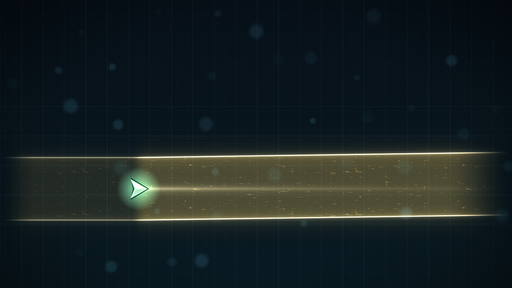
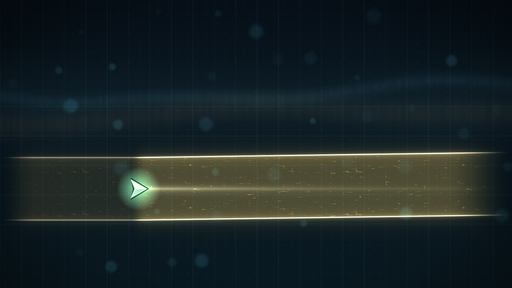
Watt Lane (#78): the reviewer's punch list before the rider
- Whole step chevrons only, ending before the lane's bend.
- The widget: captions, chips and state at 42 px; a fixed 820 px width so the HUD never shifts;
  "IN LANE" replaces the in-lane % (moved to the summary); off the lane it says how far
  ("PUSH 14 W"); the chip is "▲ 135–185 in 3" with a drawn arrow.
- The step's watts at 56 px, just inside the new lane.
- Depth above the lane: a horizon of light and two slow ribbons in the field.
- Summary: in-lane %, best streak and steps caught, through a new framework field,
  GameInfo.summary_stats (any game can declare its own tiles).

Changed region(s): [[0.125, 0.3125, 0.6875, 0.375]]

diff --git a/docs/GAMES.md b/docs/GAMES.md
@@ -663,6 +663,7 @@ game is also playable on the desktop: run its scene with F6, or play the project
 | `star_thresholds` | `{easy: [1★, 2★, 3★], standard: […], hard: […]}`: the minimum score for each star |
 | `stars_per_minute` | When true, the thresholds are points per minute of gameplay, so one set fits a 90 s slot and a 30-minute ride |
 | `variant_star_thresholds` | Star thresholds for the game's variants, by variant (e.g. `{"catch": {…}}`); others use `star_thresholds` |
+| `summary_stats` | A one-game summary's extra tiles from the result's `stats`: `[{key, label, suffix, of}]` (`of`: a second stat, shown "3/4"); at most three. Watt Lane shows in-lane %, best streak and steps caught. |
 | `options` | The game's own settings, shown on its hub screen and in the pause screen's **Game options** card: `[{key, label, choices, labels, default}]`, values as strings, plus the optional `where`, `kind`, `cards`, `columns`, `group` and `rider_badge`. See "Game options". |
 
 For work games, set the thresholds so that 3 stars needs about 1.3× effort. A perfect run at
@@ -1826,8 +1827,9 @@ the field, `WattLaneStatus` the HUD widget and `WattLaneAudio` the sounds (`watt
   within `lane_min_watts`..`lane_max_watts` (Kotlin: work 40-60 / 45-70 / 50-75% of FTP, warm-up
   35-55%). On screen, a faint guide every 12.5% of FTP; time ahead is distance to the right at
   150 px a second (about 9 s visible).
-- **Steps** are announced 5 s ahead: a chime, a countdown chip ("▲ UP 175–215 in 5"), and on the
-  lane a riser of light, amber chevrons and the new watts. From 1.5 s before a step to 3.5 s after,
+- **Steps** are announced 5 s ahead: a chime, a countdown chip ("▲ 175–215 in 5", the arrow
+  drawn), and on the lane a riser of light, whole amber chevrons before the bend and the new watts
+  (56 px, just inside the new lane). Off the lane, the widget says how far: "PUSH 14 W". From 1.5 s before a step to 3.5 s after,
   either lane counts.
 - **Scoring.** 10 points a second in the lane times a streak (×1 to ×3 over 20 s; it survives
   1 s outside), through `Effort.award`; a warm-up's points count 1.25×. Stars, points a minute:

diff --git a/games/games/watt_lane/UI_POLISH.md b/games/games/watt_lane/UI_POLISH.md
@@ -29,3 +29,19 @@ From the UI review of 2026-11-02 against `framework/ui/UI_STYLE.md`, with the wa
 5. **The out-of-lane state was colour only on the field.** **Done:** the chip PUSH ▲ / EASE ▼ /
    PEDAL ▲ in the widget, the chevron's amber rim, and the softer hum (never colour alone).
 6. **The cursor sat under the ride panel at high power.** **Done** (`GFX_POLISH.md` item 2).
+
+## Reviewer's punch list (2026-11-02), done
+
+7. **The widget's captions were about 22 px on screen** ("W LANE ×2.0", "In lane 97%"). **Done:**
+   captions, the streak, the chips and the state at 42 px; "In lane %" moved to the summary, and
+   the row says "IN LANE" (green) while in.
+8. **The widget's width changed when a chip appeared** (its right edge 1240 → 1350), shifting the
+   HUD. **Done:** a fixed 820 px (`WattLaneStatus.WIDTH`); `watt_lane_scene_test` checks the width
+   is the same with no chip, the alert and the countdown. The chip drops its "UP"/"DOWN" word to
+   fit at 42 px: "▲ 135–185 in 3", the arrow a drawn shape.
+9. **Off the lane said only "PUSH".** **Done:** "PUSH 14 W" / "EASE 20 W": how far, in whole watts,
+   from the ride panel's W to the band the rules use.
+10. **The summary showed points and time only.** **Done:** three more tiles, in-lane %, best
+    streak and steps caught, through a new framework field, `GameInfo.summary_stats` (any game can
+    declare its own; a one-game summary shows them).
+11. **The step label** (`GFX_POLISH.md` item 10).

diff --git a/games/games/watt_lane/DESIGN.md b/games/games/watt_lane/DESIGN.md
@@ -91,7 +91,7 @@ one power number: the **smoothed power**, `W = round(3 s average of the power re
 
 ### Announcing a jump (rider)
 
-- **5 s ahead** (`ANNOUNCE_SEC`): a chime, the countdown chip ("▲ UP 175–215 in 5", then 4, 3,
+- **5 s ahead** (`ANNOUNCE_SEC`): a chime, the countdown chip ("▲ 175–215 in 5", then 4, 3,
   2, 1, NOW), and amber chevrons in the lane leading into the step, with its new watts beside it. The bike reports about
   once a second, so 5 s is well over the 2 s minimum.
 - A soft tick on each of 3, 2, 1; a whoosh at the jump.
@@ -192,7 +192,7 @@ reaches at any length and a 1.3× run reaches even in a 60 s slot; on a long Jus
 10. **2D, horizontal, abstract (rider, 2026-11-02):** power is height, not a place across a
     road (a sideways lane reads as "lean"); a chevron cursor and a lit lane, not a staff and a
     note (the silhouette check). See the history above.
-11. **The countdown chip reads "▲ UP 175–215 in 5"**, not the issue's "UP to 160 W in 5": it names
+11. **The countdown chip reads "▲ 175–215 in 5"** (a drawn arrow), not the issue's "UP to 160 W in 5": it names
     the lane's bounds (the numbers the rules use) and, with "to" and "W" in, a three-digit lane
     overflowed the HUD's 850 px slot (`watt_lane_scene_test`).
 

diff --git a/games/games/watt_lane/GFX_POLISH.md b/games/games/watt_lane/GFX_POLISH.md
@@ -54,3 +54,14 @@ suite green.
 - The 3D night highway (a road read as "lean to change lanes").
 - The power-line staff, its four illustrated places and the note-head marker (the marker failed
   the silhouette check; the rider asked for an abstract look).
+
+## Reviewer's punch list (2026-11-02), done
+
+9. **The last step chevron was cut by the lane's bend** (`wl_3`). **Done:** only whole chevrons,
+   each at its own centre's lane height, ending 130 px before the step (the bend starts about
+   90 px before it).
+10. **The step label was small and sat low.** **Done:** 56 px, white with an ink outline, just
+    inside the new lane at its top, right of the riser.
+11. **The top 40% of the field was empty next to Safe Cracker.** **Done:** a horizon of light
+    behind the top of the scale and two slow ribbons of light (teal and copper) drifting at a
+    tenth of the lane's speed, all dimmer than the lane.
